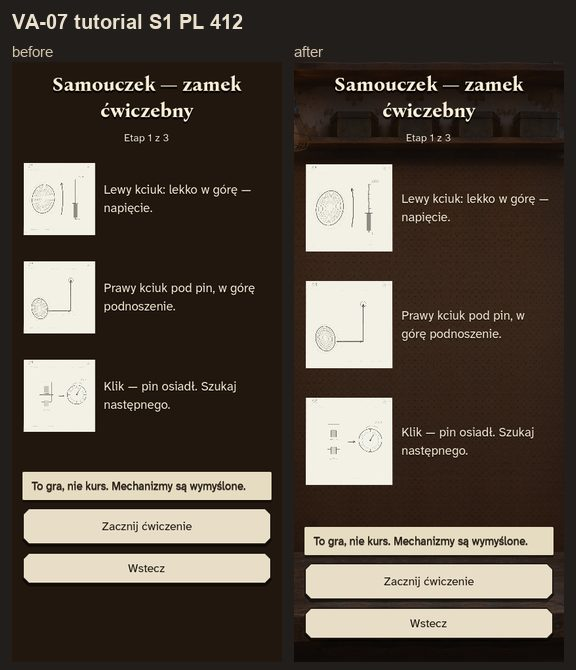
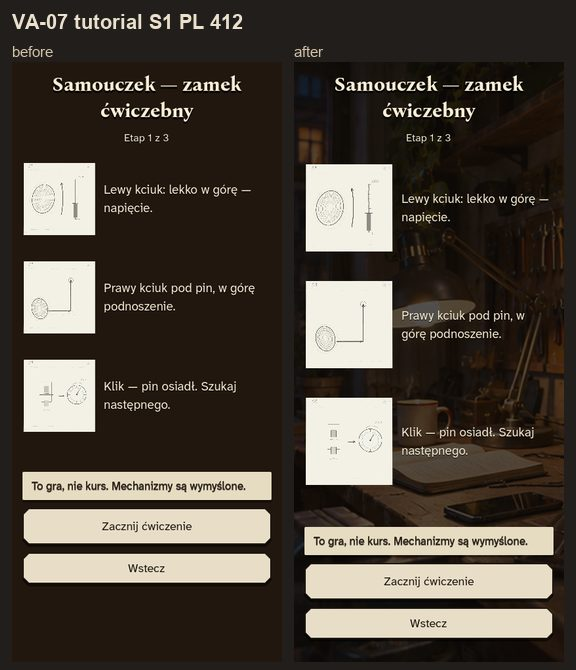
Tutorial backdrop: shipped G08 workshop photo (the 9:16 wall render is excluded from export, D-55)

diff --git a/docs/handoff/device-tests/visual_audit_2026-11-07/FINDINGS.md b/docs/handoff/device-tests/visual_audit_2026-11-07/FINDINGS.md
@@ -64,7 +64,7 @@ Ekran pauzy nie był zrzucany (należy do innego agenta, zob. VA-13).
 - **VA-06** `scripts/ui/run_loop.gd`: zdjęcie klatki wieczorem, „‹ Wstecz” jak na innych ekranach,
   notka dyspozytora na ciemnym papierze w dolnej strefie kciuka (safe-area, w poziomie maks. 640 dp).
   Ścieżki `VBox/Info` i `VBox/StartButton` bez zmian (testy). Przed/po: `before_after/va06_run_loop_*.jpg`.
-- **VA-07** `scripts/ui/tutorial.gd`: tło warsztatu (przyciemnione 0,72), karty 136×168 dp.
+- **VA-07** `scripts/ui/tutorial.gd`: tło warsztatu wieczorem (G08, przyciemnione 0,72), karty 136×168 dp.
   Przed/po: `before_after/va07_tutorial_pl.jpg`.
 - **VA-17** `scripts/ui/main_menu.gd` (`FALLBACK_LANG = "en"`, `LAST_RESORT_LANG = "pl"`) i test w
   `tests/gut/test_main_menu_v2.gd` (FR/ES → EN, brak EN → PL, pętla po 5 językach).
